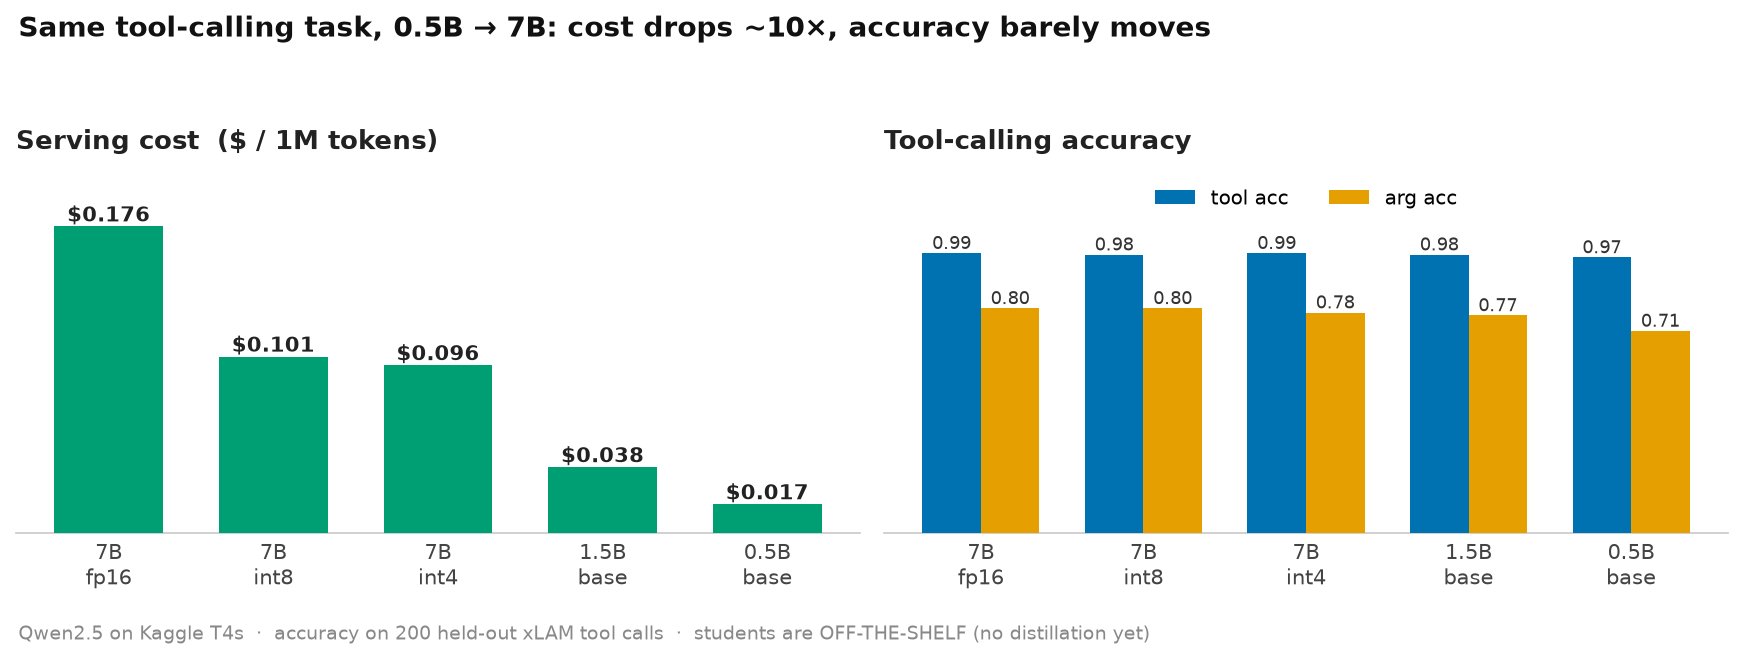
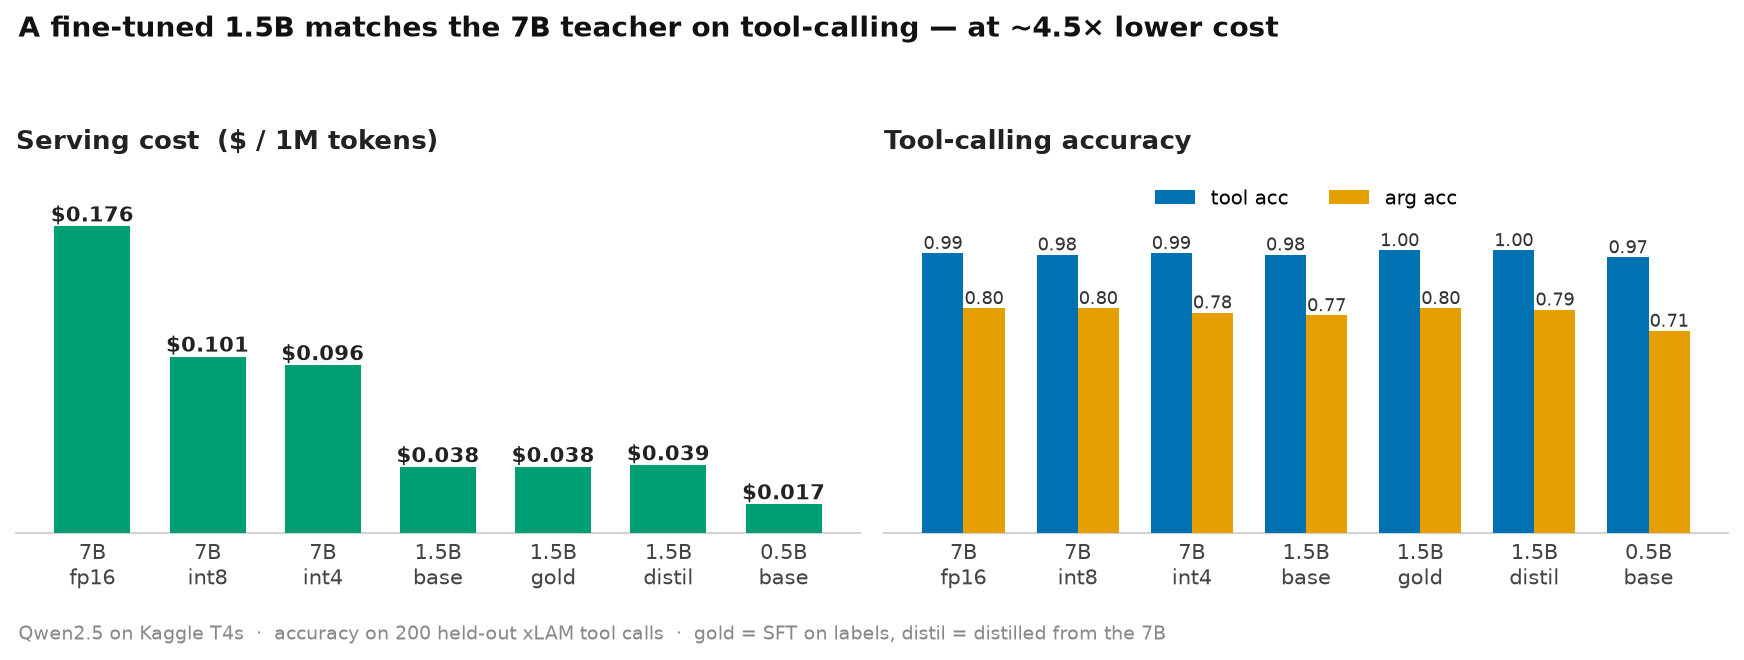
Record Phase 3 results: fine-tuned 1.5B matches teacher; distillation ties SFT

diff --git a/scripts/plot_results.py b/scripts/plot_results.py
@@ -18,12 +18,14 @@ import pandas as pd              # noqa: E402
 CSV = "results/benchmarks.csv"
 OUT = "results/charts/phase1_cost_vs_quality.png"
 
-# fixed order: most expensive/biggest -> cheapest/smallest
+# fixed order: 7B teacher variants, the 1.5B trio (base -> fine-tuned), then 0.5B
 ORDER = ["teacher_fp16", "teacher_int8", "teacher_int4_awq",
-         "student_1p5b_base", "student_0p5b_base"]
+         "student_1p5b_base", "student_1p5b_gold", "student_1p5b_distill",
+         "student_0p5b_base"]
 LABELS = {
     "teacher_fp16": "7B\nfp16", "teacher_int8": "7B\nint8",
     "teacher_int4_awq": "7B\nint4", "student_1p5b_base": "1.5B\nbase",
+    "student_1p5b_gold": "1.5B\ngold", "student_1p5b_distill": "1.5B\ndistil",
     "student_0p5b_base": "0.5B\nbase",
 }
 BLUE, ORANGE, GREEN = "#0072B2", "#E69F00", "#009E73"
@@ -70,11 +72,11 @@ def main() -> None:
         ax.set_yticks([])
 
     fig.suptitle(
-        "Same tool-calling task, 0.5B → 7B: cost drops ~10×, accuracy barely moves",
+        "A fine-tuned 1.5B matches the 7B teacher on tool-calling — at ~4.5× lower cost",
         fontsize=12.5, fontweight="bold", x=0.015, ha="left", color="#111")
     fig.text(0.015, 0.005,
              "Qwen2.5 on Kaggle T4s  ·  accuracy on 200 held-out xLAM tool calls  ·  "
-             "students are OFF-THE-SHELF (no distillation yet)",
+             "gold = SFT on labels, distil = distilled from the 7B",
              fontsize=8.5, color="#888", ha="left")
     fig.tight_layout(rect=[0, 0.04, 1, 0.92])
     Path(OUT).parent.mkdir(parents=True, exist_ok=True)

diff --git a/README.md b/README.md
@@ -18,18 +18,20 @@ tool-calling accuracy** across every configuration.
 Live table in [`results/benchmarks.csv`](results/benchmarks.csv); per-run notes in
 [`results/logs/`](results/logs/). Regenerate the chart with `python scripts/plot_results.py`.
 
-| config | params | precision | GPUs | tool_acc | arg_acc | tok/s | TTFT (ms) | p99 (ms) | VRAM (MB) | $/1M tok |
-|---|---|---|---|---|---|---|---|---|---|---|
-| teacher_fp16 | 7B | fp16 | 2× T4 | 0.990 | 0.795 | 631.1 | 55.3 | 4655 | 27462 | 0.1761 |
-| teacher_int8 | 7B | int8 (GPTQ) | 1× T4 | 0.985 | 0.795 | 548.3 | 43.5 | 1522 | 13408 | 0.1013 |
-| teacher_int4_awq | 7B | int4 (AWQ) | 1× T4 | 0.990 | 0.780 | 576.6 | 36.6 | 1278 | 14422 | 0.0964 |
-| student_1p5b_base | 1.5B | fp16 | 1× T4 | 0.985 | 0.770 | 1470.3 | 26.6 | 670 | 13808 | 0.0378 |
-| student_0p5b_base | 0.5B | fp16 | 1× T4 | 0.975 | 0.715 | 3373.0 | 23.6 | 270 | 13836 | **0.0165** |
+| config | params | precision | tool_acc | arg_acc | tok/s | p99 (ms) | $/1M tok |
+|---|---|---|---|---|---|---|---|
+| teacher_fp16 | 7B | fp16 (2× T4) | 0.990 | 0.795 | 631.1 | 4655 | 0.1761 |
+| teacher_int8 | 7B | int8 (GPTQ) | 0.985 | 0.795 | 548.3 | 1522 | 0.1013 |
+| teacher_int4_awq | 7B | int4 (AWQ) | 0.990 | 0.780 | 576.6 | 1278 | 0.0964 |
+| student_1p5b_base | 1.5B | fp16 (off-the-shelf) | 0.985 | 0.770 | 1470.3 | 670 | 0.0378 |
+| **student_1p5b_gold** | 1.5B | fp16 (fine-tuned, SFT) | **1.000** | **0.795** | 1465.1 | 667 | 0.0379 |
+| **student_1p5b_distill** | 1.5B | fp16 (distilled) | **1.000** | 0.790 | 1429.9 | 677 | 0.0389 |
+| student_0p5b_base | 0.5B | fp16 (off-the-shelf) | 0.975 | 0.715 | 3373.0 | 270 | **0.0165** |
 
 <sub>Accuracy = tool-calling on 200 held-out xLAM examples: `tool_acc` = right tool,
 `arg_acc` = right tool **and** right arguments (strict exact-match, so a floor). ±1–2 pts is
-noise at n=200. Students are **off-the-shelf** (no distillation yet). Measured on Kaggle T4s;
-`$/1M` uses $0.20/hr-per-T4 (FP16's 2× T4 = $0.40/hr).</sub>
+noise at n=200. Fine-tuned on 5k xLAM examples via QLoRA (train slice ≠ eval tail — no leakage).
+Measured on Kaggle T4s, single GPU except the FP16 teacher; `$/1M` uses $0.20/hr-per-T4.</sub>
 
 **Takeaways:**
 
@@ -42,6 +44,11 @@ noise at n=200. Students are **off-the-shelf** (no distillation yet). Measured o
   tool selection (0.985 vs 0.990) at **~4.7× lower cost, 2.3× throughput, 7× better p99** — and
   even a **0.5B** holds 0.975 tool accuracy at **~10× lower cost**. The only real gap is argument
   accuracy on the smallest model (0.715). This is the "SLM-first agents" result on our own numbers.
+- **Fine-tuning closes the gap — a 1.5B matches the 7B teacher.** QLoRA lifted the 1.5B from
+  0.985/0.770 to **1.00 tool / 0.795 arg**, landing right at the teacher (0.99 / 0.795) at
+  **~4.5× lower cost** and lower latency. And a tested-not-assumed finding: **distillation did not
+  beat plain SFT** (gold 0.795 vs distill 0.790) — because the base student was already near the
+  teacher, its answers weren't a richer signal than the ground-truth labels.
 
 Full write-up, including what these numbers *don't* prove, in
 [`results/FINDINGS.md`](results/FINDINGS.md).

diff --git a/results/FINDINGS.md b/results/FINDINGS.md
@@ -81,3 +81,53 @@ good — are backed by numbers, not assumed.
 The honest asterisks: it's a strict, single-call, 200-example metric, one run per config,
 on old hardware, using pre-quantized checkpoints. None of that breaks the conclusion for
 this task — but it's why I'd call this strong signal, not the last word.
+
+# Phase 3 notes — fine-tuning a small SLM
+
+## What I was trying to find out
+
+The base 1.5B already nearly matched the 7B teacher out of the box; the only real gap was
+argument accuracy (0.770 vs the teacher's 0.795). So: can QLoRA fine-tuning close that gap,
+and does distilling from the teacher beat plain SFT on the ground-truth labels?
+
+Setup: QLoRA (4-bit base + LoRA adapters) on 5,000 xLAM examples, 1 epoch. Two recipes —
+**gold** (train on the dataset's true tool calls) and **distill** (train on the 7B teacher's
+own tool calls). Train slice is the front of xLAM; eval is the held-out tail — no overlap.
+
+## What the numbers said
+
+| 1.5B model | tool_acc | arg_acc | $/1M |
+|---|---|---|---|
+| base (off-the-shelf) | 0.985 | 0.770 | 0.038 |
+| gold (SFT) | 1.000 | 0.795 | 0.038 |
+| distill | 1.000 | 0.790 | 0.039 |
+| *(7B teacher)* | *0.990* | *0.795* | *0.176* |
+
+**1. Fine-tuning matched the 7B teacher with a 1.5B.** Both recipes lifted the student to
+tool 1.00 / arg 0.795 — level with (or a hair past) the teacher — at ~4.5× lower cost and
+lower latency. A sub-2B model doing tool-calling as well as a 7B is the whole thesis, and it
+held up.
+
+**2. Distillation did NOT beat plain SFT** (gold 0.795 vs distill 0.790 — a tie). This is the
+interesting, tested-not-assumed part. Sequence distillation only helps when the teacher is a
+meaningfully better source than the labels. Here the base student was *already* near the
+teacher, so the teacher's answers carried no extra signal over the ground truth — and gold SFT,
+being simpler, is the better default. If the student had started far behind (a genuinely weak
+model), distillation would likely have earned its keep. Worth testing on the 0.5B, which has
+the bigger gap.
+
+## What this still doesn't prove
+
+1. **`tool_acc = 1.00` reads suspiciously perfect.** It means the right tool on all 200
+   held-out prompts. There's no leakage (train = front, eval = tail), and it's a narrow task,
+   so it's plausible — but at n=200 treat "1.00 vs 0.99" as a tie, not a win.
+2. **`arg_acc` is still strict exact-match**, so 0.795 is a floor; the true argument quality is
+   a bit higher for all of them.
+3. **One run, one epoch, 5k examples.** More data / a weaker student / a harder eval could all
+   shift the gold-vs-distill picture.
+
+## Bottom line (Phase 3)
+
+For tool-calling, a **fine-tuned 1.5B matches the 7B teacher at a fraction of the cost** — the
+compression thesis, end to end. And distillation is not automatically better than SFT: it pays
+off only when the teacher genuinely outclasses the student, which wasn't the case here.
